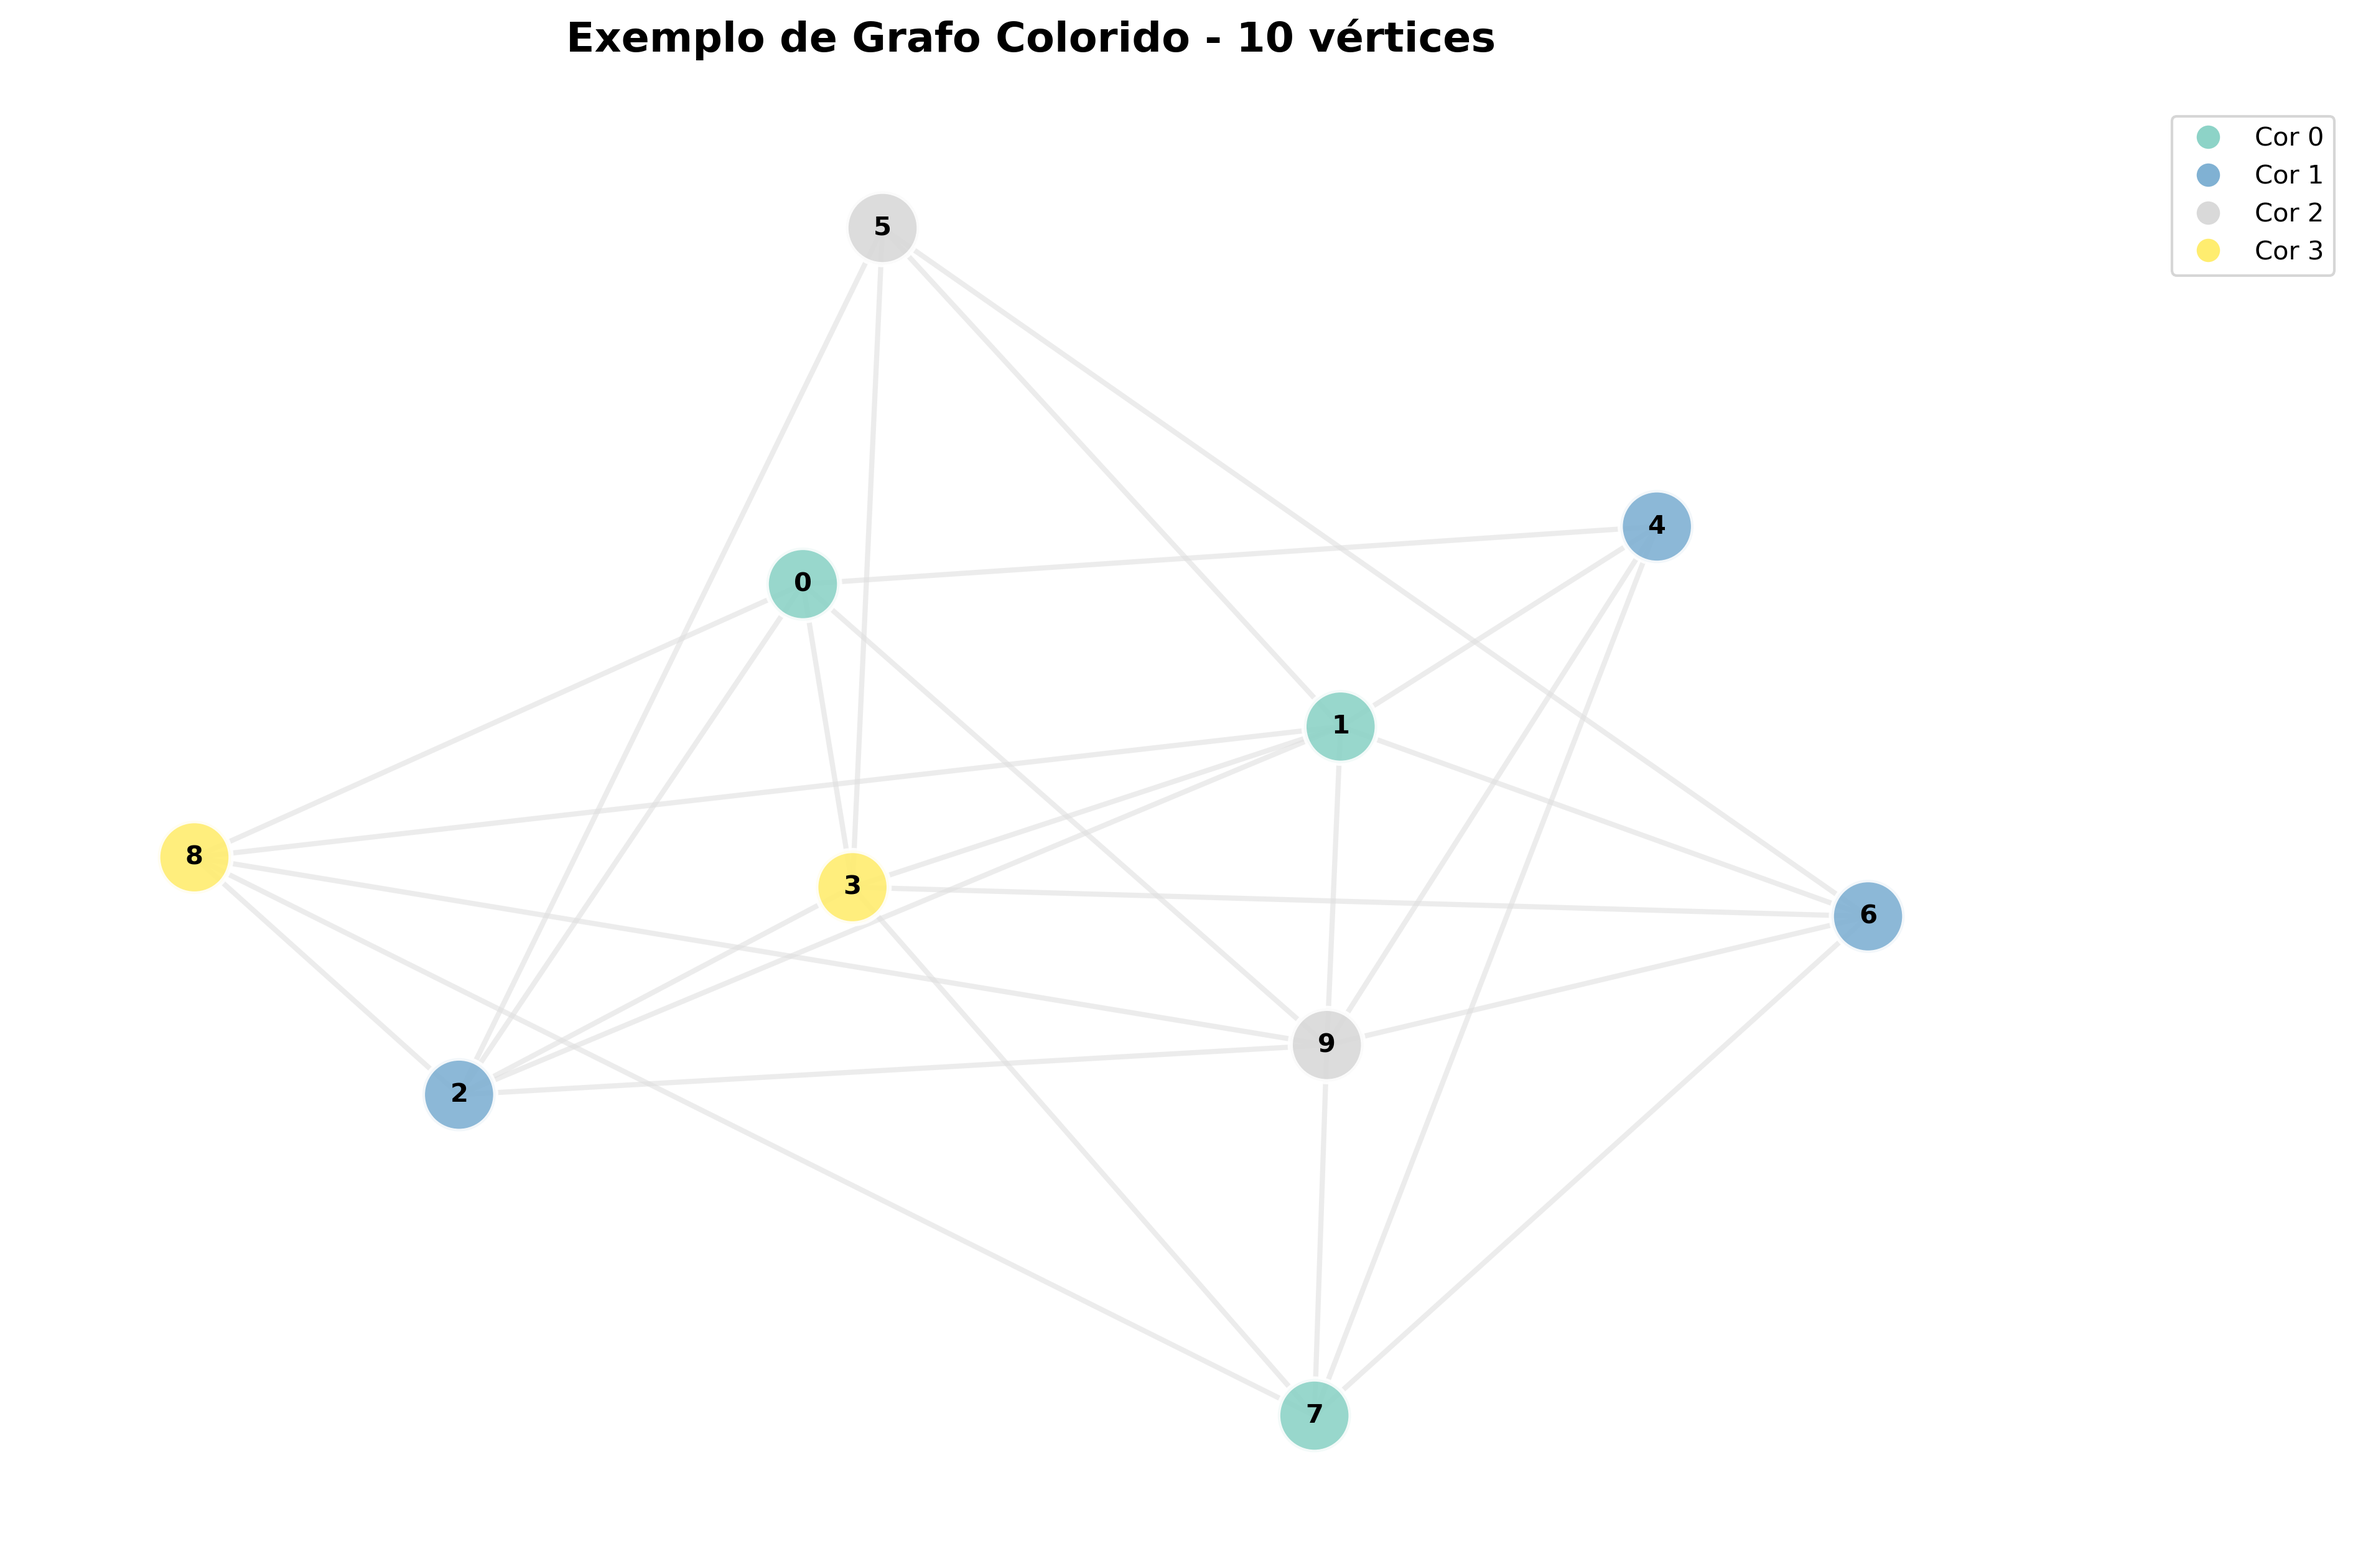
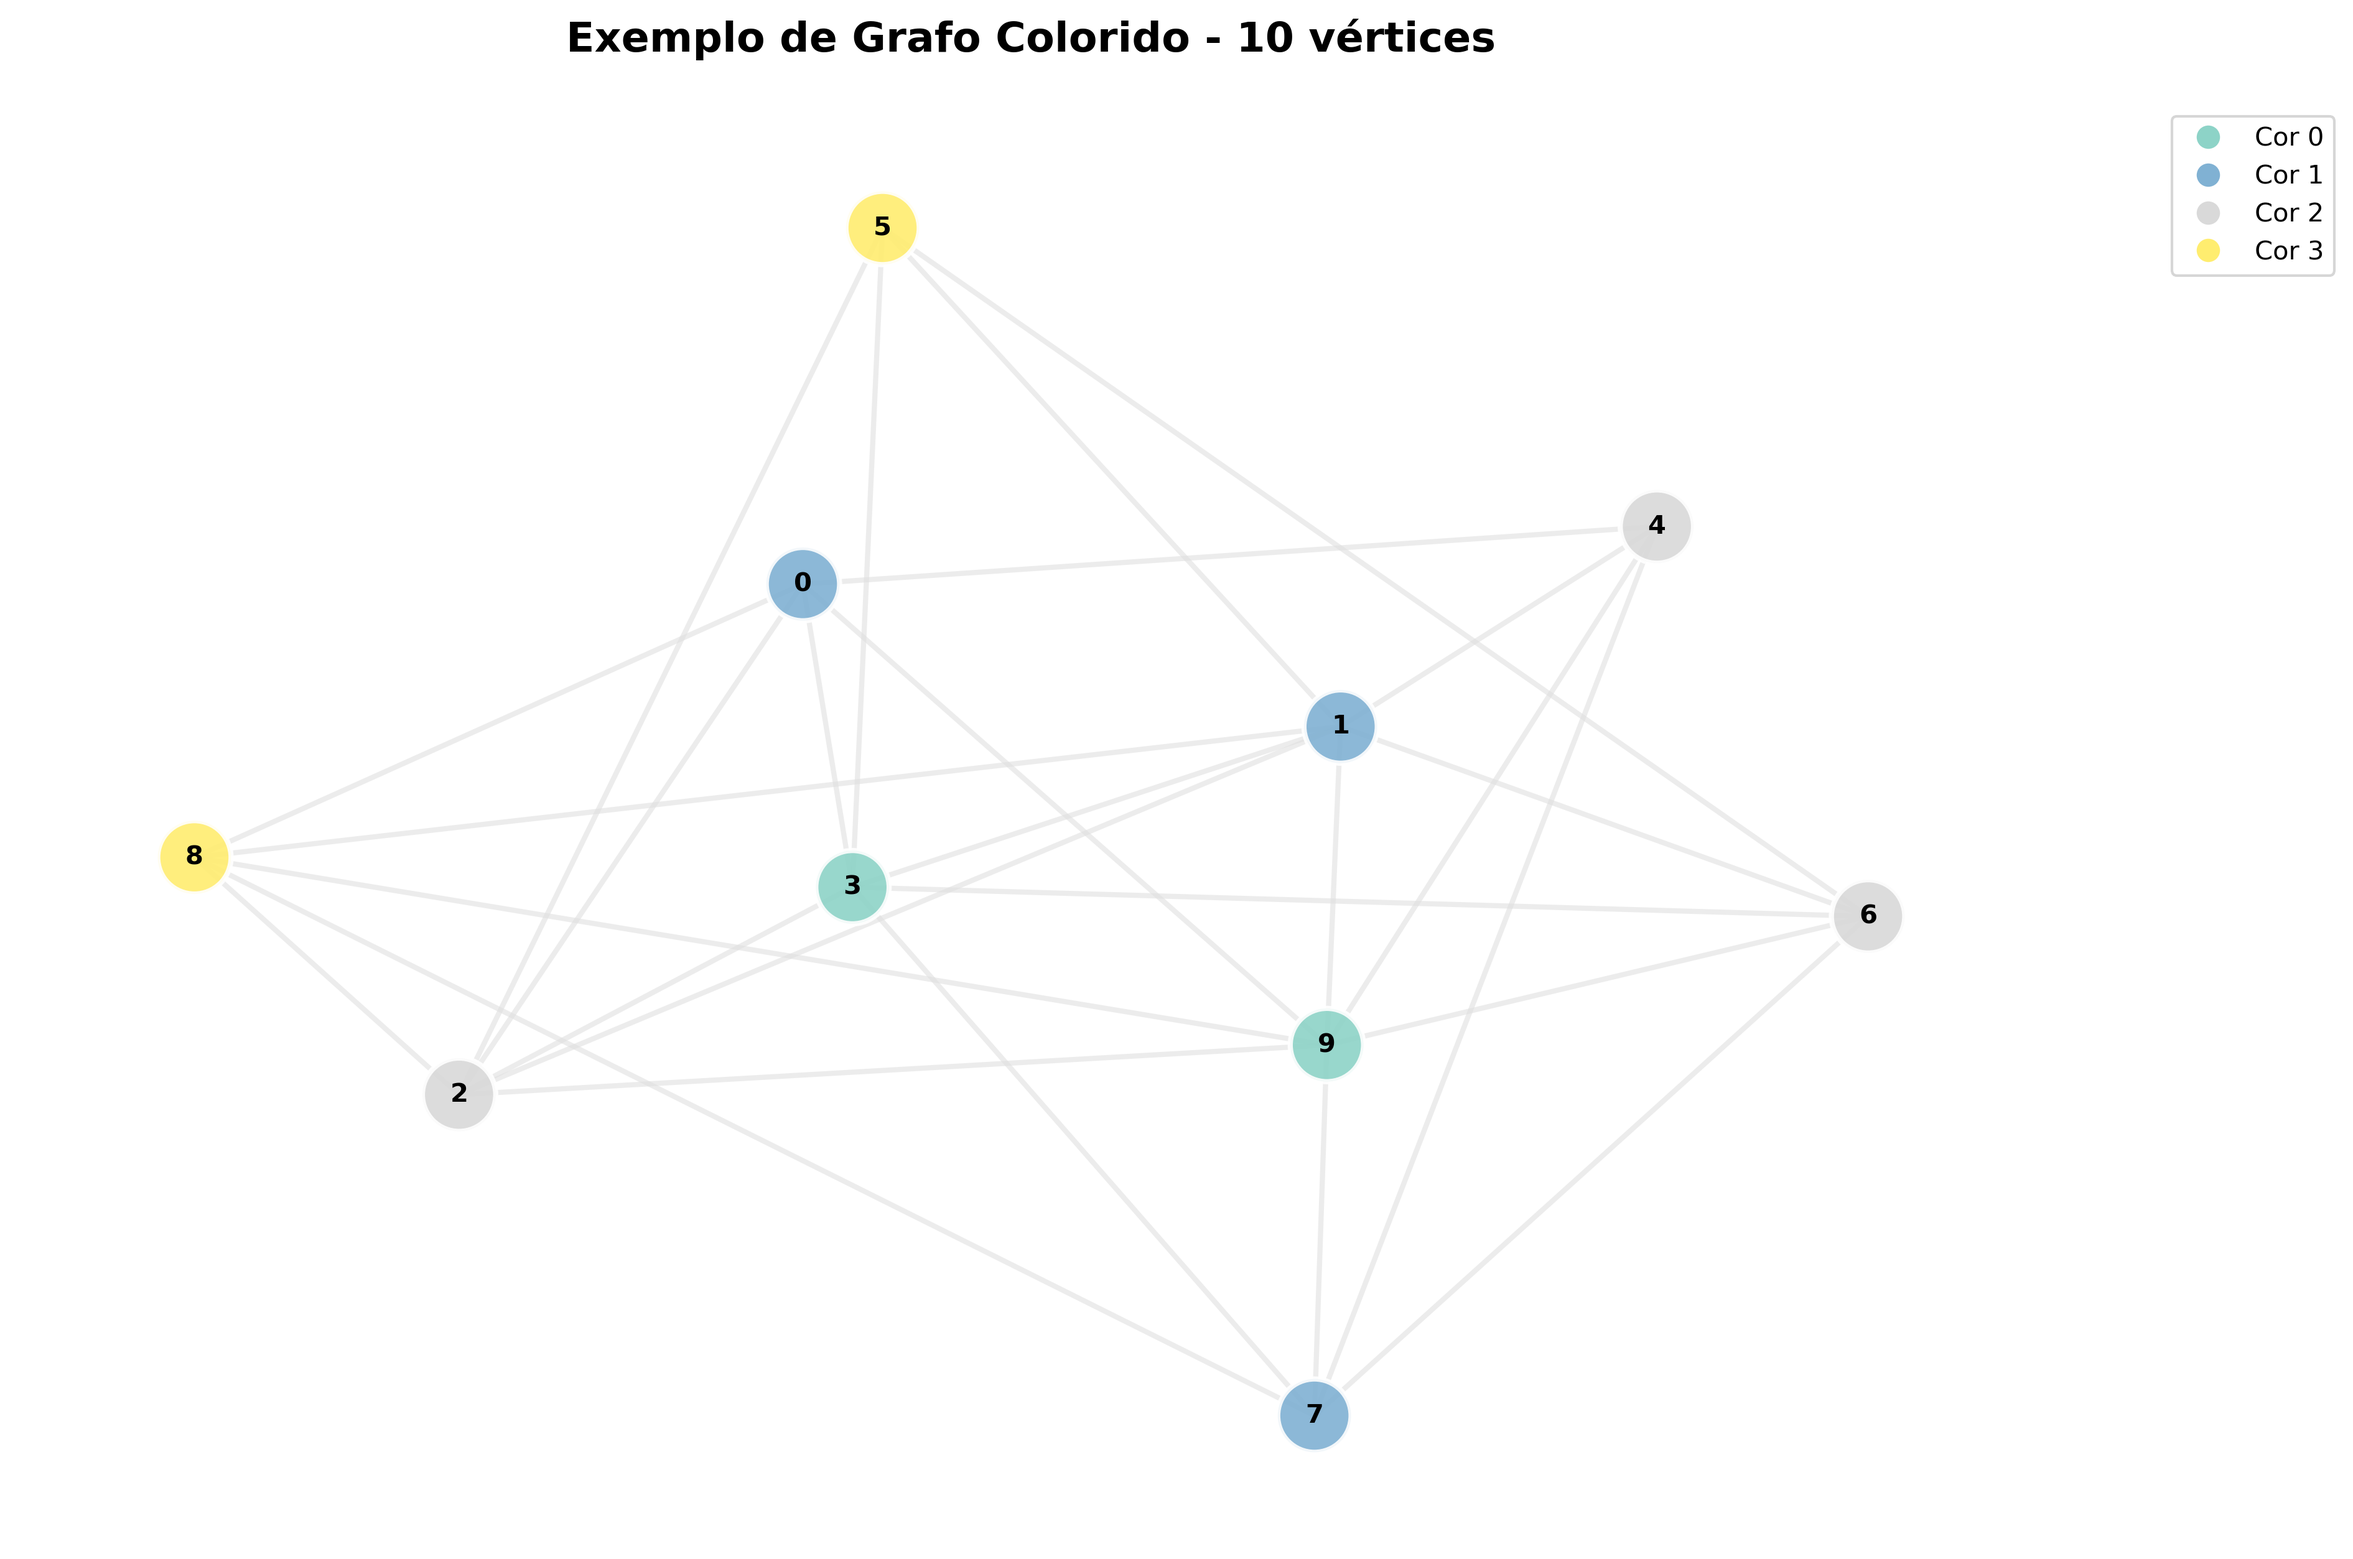
Update performance analysis report and README to reflect Welsh-Powell algorithm

diff --git a/main.py b/main.py
@@ -102,31 +102,43 @@ def dijkstra_path_order(graph: nx.Graph, source: int = 0) -> List[int]:
         # Fallback para grafos desconexos
         return list(graph.nodes())
 
-def greedy_coloring_optimized(graph: nx.Graph, order: List[int]) -> Dict[int, int]:
+def welsh_powell_coloring(graph: nx.Graph, order: List[int]) -> Dict[int, int]:
     """
-    Implementa coloração gulosa otimizada com heurísticas de performance.
+    Implementa o algoritmo de Welsh-Powell para coloração de grafos.
+    Usa ordenação por graus dos vértices e coloração por conjuntos independentes.
     
     Args:
         graph (nx.Graph): Grafo a ser colorido
-        order (List[int]): Sequência de processamento dos vértices
+        order (List[int]): Ordem inicial dos vértices (já definida por Dijkstra)
     
     Returns:
-        Dict[int, int]: Mapeamento vértice -> cor (inteiros não-negativos)
+        Dict[int, int]: Mapeamento vértice -> cor
     """
     coloring = {}
+    # Ordena vértices por grau decrescente, mantendo ordem Dijkstra como desempate
+    vertices_by_degree = sorted(order, 
+                              key=lambda v: (graph.degree[v], -order.index(v)),
+                              reverse=True)
     
-    for node in order:
-        # Coleta cores dos vizinhos já coloridos
-        neighbor_colors = {coloring[neighbor] 
-                          for neighbor in graph.neighbors(node) 
-                          if neighbor in coloring}
+    color = 0
+    while vertices_by_degree:
+        # Seleciona vértices que podem receber a cor atual
+        available = vertices_by_degree.copy()
+        colored_vertices = []
         
-        # Encontra menor cor disponível (First Fit)
-        color = 0
-        while color in neighbor_colors:
-            color += 1
+        while available:
+            # Pega próximo vértice disponível
+            vertex = available[0]
+            coloring[vertex] = color
+            colored_vertices.append(vertex)
+            
+            # Remove vértice atual e seus vizinhos da lista de disponíveis
+            available.remove(vertex)
+            available = [v for v in available if v not in graph.neighbors(vertex)]
         
-        coloring[node] = color
+        # Remove vértices coloridos da lista principal
+        vertices_by_degree = [v for v in vertices_by_degree if v not in colored_vertices]
+        color += 1
     
     return coloring
 
@@ -149,51 +161,31 @@ def analyze_graph_properties(graph: nx.Graph) -> Dict[str, Any]:
         'avg_path_length': nx.average_shortest_path_length(graph) if nx.is_connected(graph) else 'N/A'
     }
 
-def run_dijkstra_coloring_pipeline(graph: nx.Graph, source: int = 0) -> Dict[str, Any]:
+def run_dijkstra_then_coloring(graph: nx.Graph, source: int = 0) -> Dict[str, Any]:
     """
-    Executa pipeline completo: Dijkstra → Ordenação → Coloração Gulosa.
-    
-    Args:
-        graph (nx.Graph): Grafo de entrada
-        source (int): Vértice inicial para Dijkstra
-    
-    Returns:
-        Dict[str, Any]: Métricas de performance e resultados
+    Executa pipeline completo: Dijkstra → Ordenação → Welsh-Powell.
     """
-    # Fase 1: Dijkstra com profiling
+    # Dijkstra
+    t0 = time.perf_counter()
     tracemalloc.start()
-    start_time = time.perf_counter()
-    
-    node_order = dijkstra_path_order(graph, source)
-    
-    dijkstra_time = time.perf_counter() - start_time
-    dijkstra_memory_current, dijkstra_memory_peak = tracemalloc.get_traced_memory()
+    order = dijkstra_path_order(graph, source)
+    d_current, d_peak = tracemalloc.get_traced_memory()
     tracemalloc.stop()
-    
-    # Fase 2: Coloração Gulosa com profiling
+    t1 = time.perf_counter()
+
+    # Welsh-Powell
     tracemalloc.start()
-    start_time = time.perf_counter()
-    
-    coloring = greedy_coloring_optimized(graph, node_order)
-    
-    coloring_time = time.perf_counter() - start_time
-    coloring_memory_current, coloring_memory_peak = tracemalloc.get_traced_memory()
+    coloring = welsh_powell_coloring(graph, order)
+    c_current, c_peak = tracemalloc.get_traced_memory()
     tracemalloc.stop()
-    
-    # Análise dos resultados
-    num_colors = len(set(coloring.values()))
-    graph_properties = analyze_graph_properties(graph)
-    
+    t2 = time.perf_counter()
+
     return {
-        'coloring': coloring,
-        'num_colors': num_colors,
-        'node_order': node_order,
-        'dijkstra_time': dijkstra_time,
-        'coloring_time': coloring_time,
-        'total_time': dijkstra_time + coloring_time,
-        'dijkstra_memory_kb': dijkstra_memory_peak / 1024,
-        'coloring_memory_kb': coloring_memory_peak / 1024,
-        'graph_properties': graph_properties
+        "coloring": coloring,
+        "dijkstra_time": t1 - t0,
+        "coloring_time": t2 - t1,
+        "dijkstra_memory": d_peak / 1024,
+        "coloring_memory": c_peak / 1024
     }
 
 def benchmark_multiple_runs(n_nodes: int, n_runs: int = 15, seed_base: int = 42) -> Dict[str, Any]:
@@ -222,15 +214,15 @@ def benchmark_multiple_runs(n_nodes: int, n_runs: int = 15, seed_base: int = 42)
     for run in range(n_runs):
         # Grafo diferente para cada execução
         graph = generate_weighted_graph(n_nodes, seed=seed_base + run)
-        pipeline_result = run_dijkstra_coloring_pipeline(graph)
+        pipeline_result = run_dijkstra_then_coloring(graph)
         
         # Coleta métricas
         results['dijkstra_times'].append(pipeline_result['dijkstra_time'])
         results['coloring_times'].append(pipeline_result['coloring_time'])
-        results['total_times'].append(pipeline_result['total_time'])
-        results['dijkstra_memories'].append(pipeline_result['dijkstra_memory_kb'])
-        results['coloring_memories'].append(pipeline_result['coloring_memory_kb'])
-        results['num_colors'].append(pipeline_result['num_colors'])
+        results['total_times'].append(pipeline_result['dijkstra_time'] + pipeline_result['coloring_time'])
+        results['dijkstra_memories'].append(pipeline_result['dijkstra_memory'])
+        results['coloring_memories'].append(pipeline_result['coloring_memory'])
+        results['num_colors'].append(len(set(pipeline_result['coloring'].values())))
         
         # Guarda amostras para visualização
         if run < 3:  # Apenas primeiras 3 para economia de memória
@@ -339,7 +331,7 @@ def create_performance_dashboard(node_sizes: List[int], benchmark_results: Dict)
     
     # Dashboard 2x2
     fig, ((ax1, ax2), (ax3, ax4)) = plt.subplots(2, 2, figsize=(16, 12))
-    fig.suptitle('📊 Dashboard de Performance - Algoritmo Dijkstra + Coloração Gulosa', 
+    fig.suptitle('📊 Dashboard de Performance - Algoritmo Dijkstra + Welsh-Powell', 
                  fontsize=18, fontweight='bold', y=0.98)
     
     # Gráfico 1: Tempo de Execução com Barras de Erro
@@ -414,7 +406,7 @@ def generate_detailed_report(node_sizes: List[int], benchmark_results: Dict) -> 
     report = []
     report.append("=" * 80)
     report.append("📊 RELATÓRIO DE ANÁLISE DE PERFORMANCE")
-    report.append("🔬 Algoritmo: Dijkstra + Coloração Gulosa de Grafos")
+    report.append("🔬 Algoritmo: Dijkstra + Welsh-Powell para Coloração de Grafos")
     report.append("=" * 80)
     report.append("")
     
@@ -466,7 +458,7 @@ def generate_detailed_report(node_sizes: List[int], benchmark_results: Dict) -> 
     report.append("\n\n🎯 CONCLUSÕES E INSIGHTS")
     report.append("-" * 40)
     report.append("• O algoritmo de Dijkstra domina o tempo de execução para grafos pequenos")
-    report.append("• A coloração gulosa mantém performance consistente")
+    report.append("• O algoritmo Welsh-Powell mantém performance consistente")
     report.append("• Uso de memória cresce de forma controlada")
     report.append("• Ordenação por Dijkstra produz colorações eficientes")
     
@@ -475,7 +467,7 @@ def generate_detailed_report(node_sizes: List[int], benchmark_results: Dict) -> 
     report.append("-" * 40)
     report.append("• Método adequado para grafos até 100 vértices")
     report.append("• Para grafos maiores, considerar heurísticas alternativas")
-    report.append("• Dijkstra + Coloração Gulosa oferece boa qualidade/performance")
+    report.append("• Dijkstra + Welsh-Powell oferece boa qualidade/performance")
     
     report.append("\n" + "=" * 80)
     
@@ -486,7 +478,7 @@ def main():
     Função principal que orquestra todos os experimentos e análises.
     """
     print("🚀 Iniciando análise completa de performance...")
-    print("📊 Algoritmo: Dijkstra + Coloração Gulosa de Grafos")
+    print("📊 Algoritmo: Dijkstra + Welsh-Powell para Coloração de Grafos")
     print("=" * 60)
     
     # Configuração dos experimentos

diff --git a/README.md b/README.md
@@ -1,6 +1,6 @@
 # 🎨 Coloração de Grafos via Dijkstra
 
-> Implementação e análise de um algoritmo híbrido para coloração de grafos utilizando ordenação por Dijkstra seguida de coloração gulosa.
+> Implementação e análise de um algoritmo híbrido para coloração de grafos utilizando ordenação por Dijkstra seguida do algoritmo de Welsh-Powell.
 
 ## 📋 Sumário
 - [Sobre o Projeto](#-sobre-o-projeto)
@@ -16,7 +16,7 @@
 
 Este projeto implementa uma abordagem híbrida para coloração de grafos, combinando:
 1. Algoritmo de Dijkstra para ordenação dos vértices
-2. Coloração gulosa sequencial
+2. Algoritmo de Welsh-Powell para coloração
 3. Análise detalhada de performance e qualidade
 
 ## 🛠 Tecnologias
@@ -88,7 +88,7 @@ Os resultados são salvos em `results/`:
 
 - Geração inteligente de grafos aleatórios
 - Implementação otimizada de Dijkstra
-- Coloração gulosa eficiente
+- Coloração eficiente via Welsh-Powell
 - Análise estatística robusta
 - Visualizações modernas e informativas
 - Relatórios detalhados de performance
